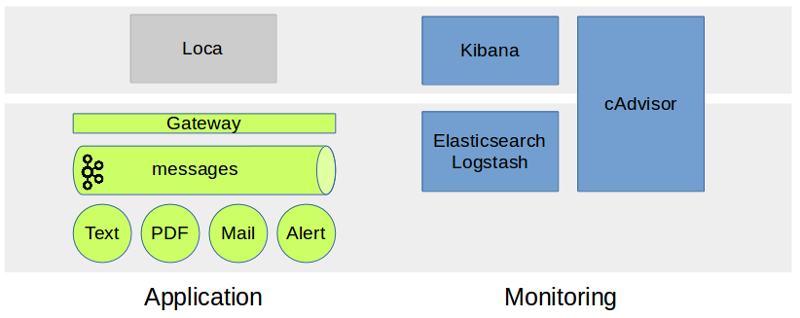
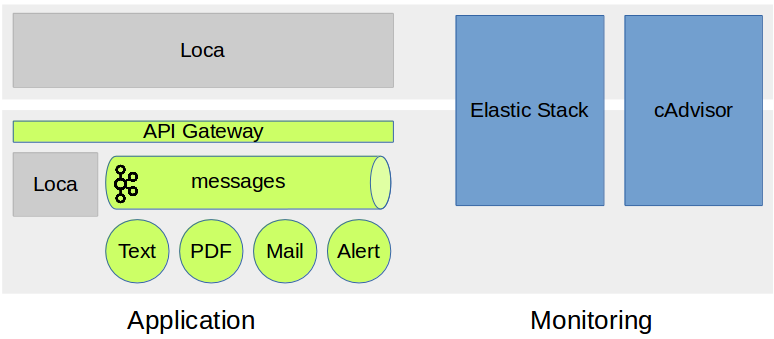
updated architecture diagram

diff --git a/README.md b/README.md
@@ -8,17 +8,17 @@ The first objective is to combine the monolith application and the microservices
 
 ![overview](./picture/overview.png)
 
-| Service  | Description                                                                                                      | Status          |
-| :------- | :--------------------------------------------------------------------------------------------------------------- | :-------------: |
-| Alert    | Sends alert messages based on business rules (contract deadlines, unpaid rents...)                               | Not available   |
-| cAdvisor | [Container Advisor](https://github.com/google/cadvisor)                                                          | Available       |
-| ELK      | [Elasticsearch Logstash Kibana](https://www.elastic.co//products) handles logs and monitors containers and hosts | Available       |
-| Gateway  | To define                                                                                                        | Dev in progress |
-| Loca     | The monolith application [Loca](https://github.com/camelaissani/loca)                                            | Dev in progress |
-| Mail     | Generates and sends email                                                                                        | Not available   |
-| Messages | [Kafka](https://kafka.apache.org/) message brokers                                                               | Available       |
-| PDF      | Generates PDF documents (letters, contracts, invoices...)                                                        | Not available   |
-| Text     | Generates and texts (cash balance, alerts...)                                                                    | Not available   |
+| Service       | Description                                                                                                      | Status          |
+| :------------ | :--------------------------------------------------------------------------------------------------------------- | :-------------: |
+| Alert         | Sends alert messages based on business rules (contract deadlines, unpaid rents...)                               | Not available   |
+| cAdvisor      | [Container Advisor](https://github.com/google/cadvisor)                                                          | Available       |
+| Elastic Stack | [Elasticsearch Logstash Kibana](https://www.elastic.co//products) handles logs and monitors containers and hosts | Available       |
+| API Gateway   | To define                                                                                                        | Dev in progress |
+| Loca          | The monolith application [Loca](https://github.com/camelaissani/loca)                                            | Dev in progress |
+| Mail          | Generates and sends email                                                                                        | Not available   |
+| Messages      | [Kafka](https://kafka.apache.org/) message brokers                                                               | Available       |
+| PDF           | Generates PDF documents (letters, contracts, invoices...)                                                        | Not available   |
+| Text          | Generates and texts (cash balance, alerts...)                                                                    | Not available   |
 
 
 In a second stage, the monolith application will be broken in microservices.
